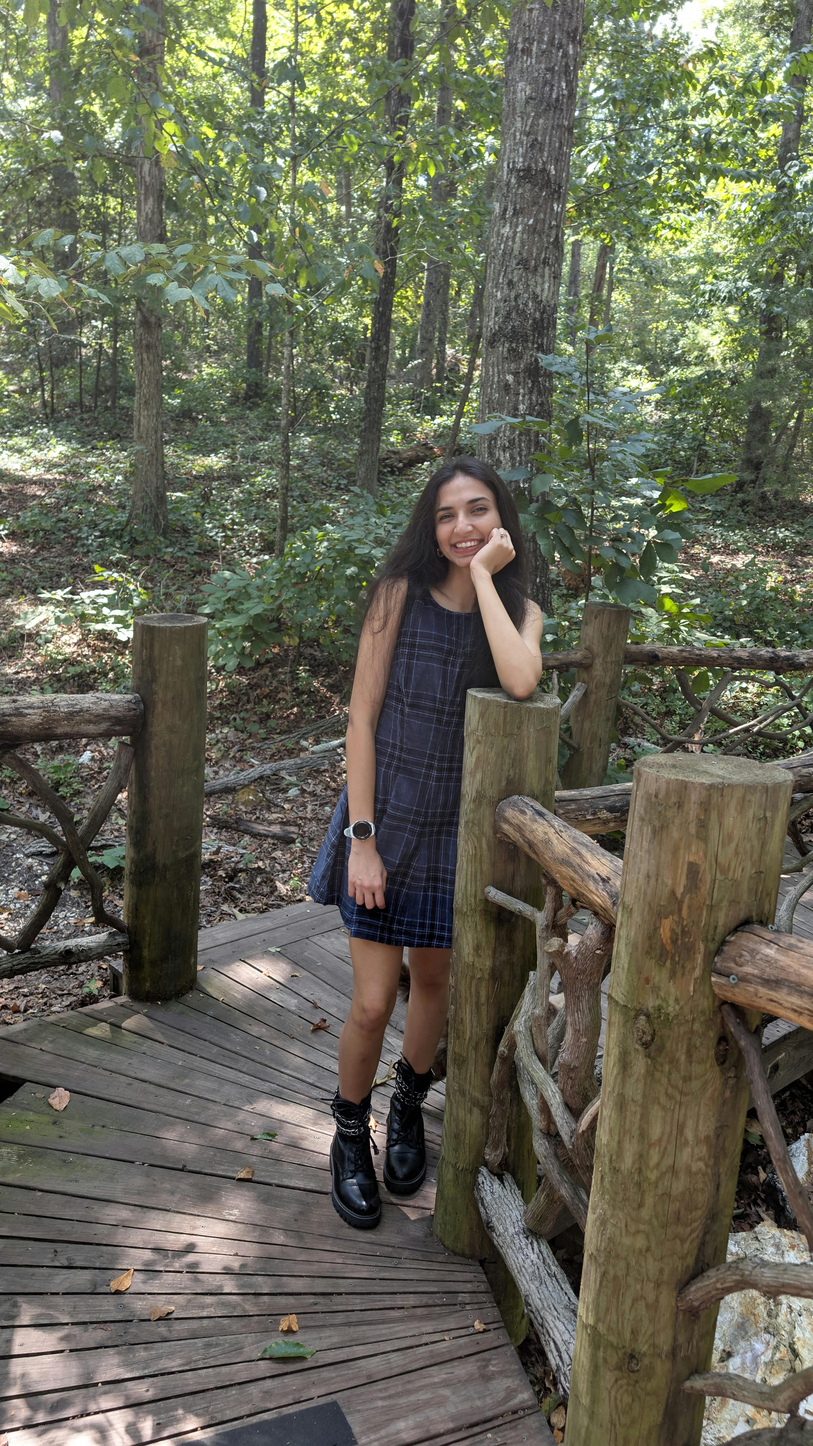
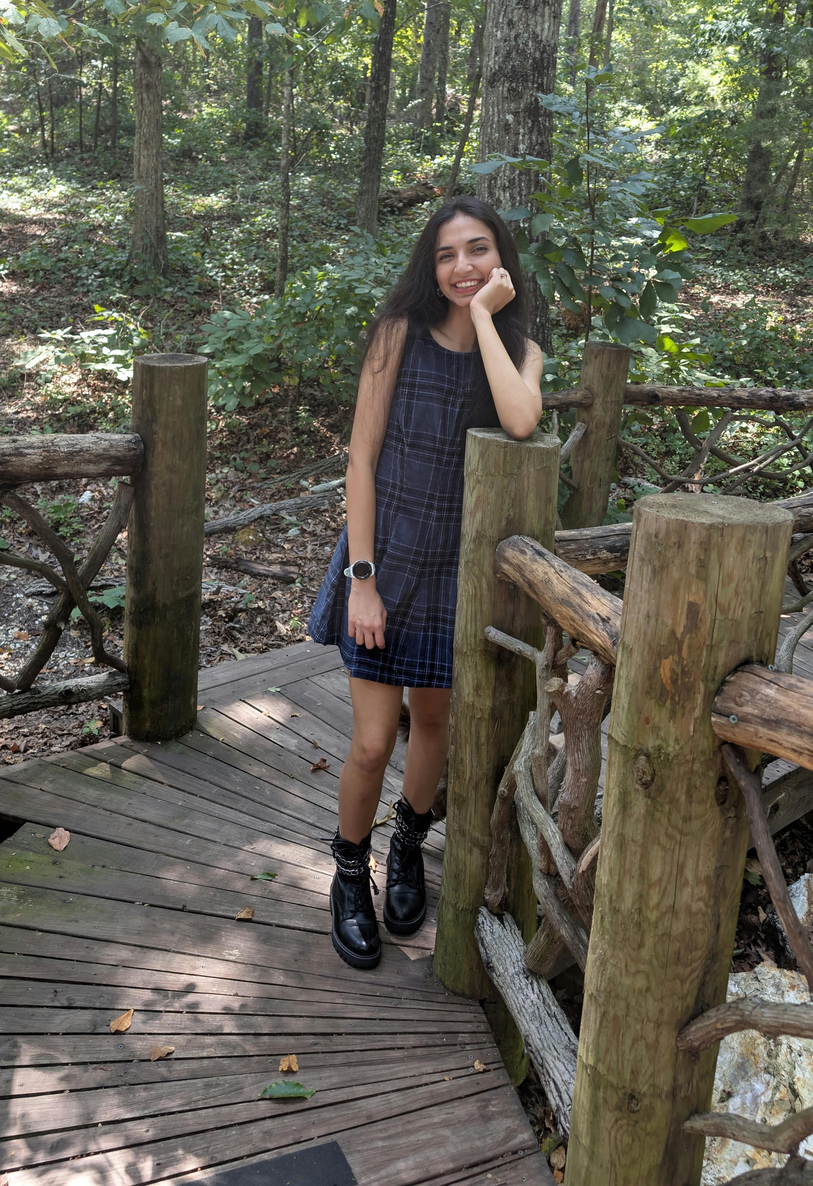
make other modifications

diff --git a/index.html b/index.html
@@ -143,7 +143,7 @@
         <article class="news-item reveal">
           <time class="news-item__date" datetime="2025-09">Sep 2026</time>
           <p class="news-item__text">
-            🎤 Paper accepted at the <strong>DynaFront Workshop, NeurIPS 2026</strong> on risk-averse multi-population mean-field games.
+            🏆 Paper accepted at the <strong>DynaFront Workshop, NeurIPS 2026</strong> on risk-averse multi-population mean-field games.
           </p>
         </article>
 
@@ -297,8 +297,8 @@
                 <p style="font-size: 0.85rem; margin: 0; color: var(--charcoal-lt);">Georgia Institute of Technology · 2023 – Present</p>
               </div>
               <div>
-                <strong style="font-size: 0.9rem;">B.Tech, Electrical Engineering</strong>
-                <p style="font-size: 0.85rem; margin: 0; color: var(--charcoal-lt);">IIT Bombay (or equivalent) · Prior to 2023</p>
+                <strong style="font-size: 0.9rem;">B.Tech, Mechanical Engineering  + M.Tech, Systems and Control Engineering</strong>
+                <p style="font-size: 0.85rem; margin: 0; color: var(--charcoal-lt);">IIT Bombay · Prior to 2023</p>
               </div>
             </div>
           </div>

diff --git a/projects.html b/projects.html
@@ -213,6 +213,11 @@
           </div>
           <div class="collab-card reveal" style="transition-delay: 0.1s;">
             <div class="collab-card__avatar">👨🔬</div>
+            <p class="collab-card__name">Siddhartha Ganguly</p>
+            <p class="collab-card__role">Collaborator · Georgia Tech</p>
+          </div>
+          <div class="collab-card reveal" style="transition-delay: 0.1s;">
+            <div class="collab-card__avatar">👨🔬</div>
             <p class="collab-card__name">Yue Guan</p>
             <p class="collab-card__role">Collaborator · Georgia Tech</p>
           </div>
